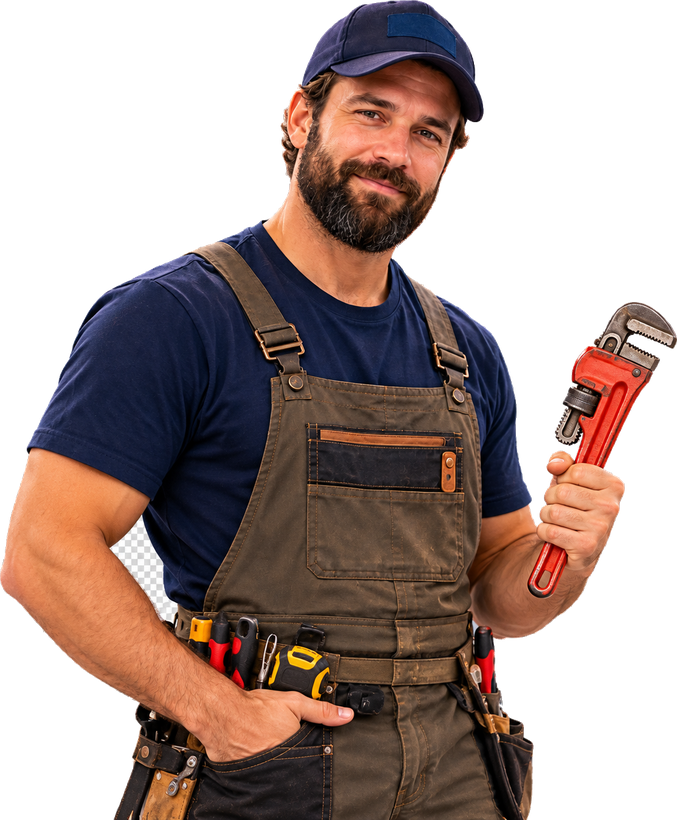
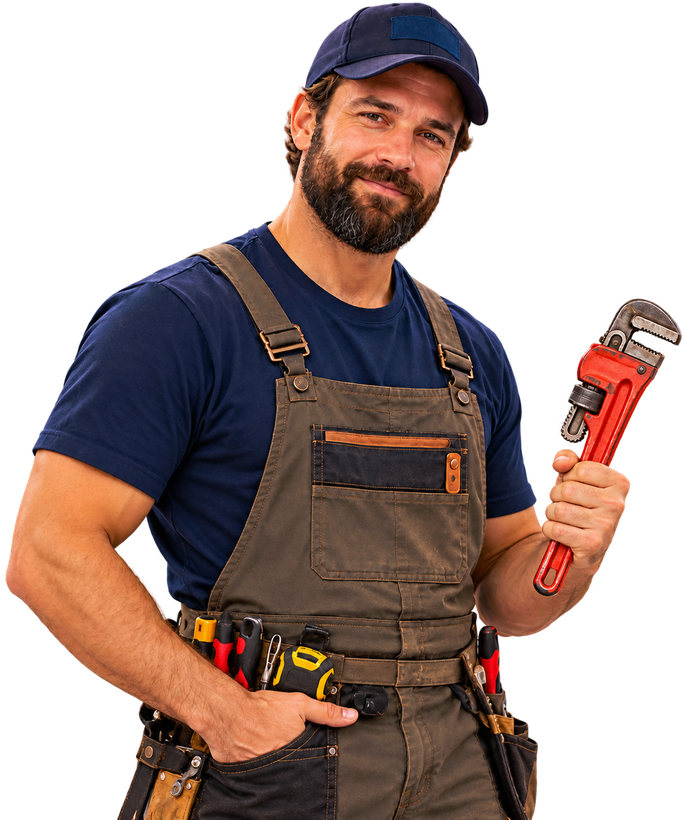
Replace plumber cutout

diff --git a/clinics-dental/index.html b/clinics-dental/index.html
@@ -1743,7 +1743,7 @@ var CAL = "https://calendly.com/hello-voicecaptures";
 // and the switcher keeps it in step afterwards so any tab can be shared.
 // Bump when an image is replaced under the same filename, or returning
 // visitors keep the cached copy.
-var ASSET_V = "5";
+var ASSET_V = "6";
 
 var SLUGS = {
   personal: "personal",

diff --git a/home-services/index.html b/home-services/index.html
@@ -1743,7 +1743,7 @@ var CAL = "https://calendly.com/hello-voicecaptures";
 // and the switcher keeps it in step afterwards so any tab can be shared.
 // Bump when an image is replaced under the same filename, or returning
 // visitors keep the cached copy.
-var ASSET_V = "5";
+var ASSET_V = "6";
 
 var SLUGS = {
   personal: "personal",

diff --git a/index.html b/index.html
@@ -1743,7 +1743,7 @@ var CAL = "https://calendly.com/hello-voicecaptures";
 // and the switcher keeps it in step afterwards so any tab can be shared.
 // Bump when an image is replaced under the same filename, or returning
 // visitors keep the cached copy.
-var ASSET_V = "5";
+var ASSET_V = "6";
 
 var SLUGS = {
   personal: "personal",

diff --git a/other-businesses/index.html b/other-businesses/index.html
@@ -1743,7 +1743,7 @@ var CAL = "https://calendly.com/hello-voicecaptures";
 // and the switcher keeps it in step afterwards so any tab can be shared.
 // Bump when an image is replaced under the same filename, or returning
 // visitors keep the cached copy.
-var ASSET_V = "5";
+var ASSET_V = "6";
 
 var SLUGS = {
   personal: "personal",

diff --git a/personal/index.html b/personal/index.html
@@ -1743,7 +1743,7 @@ var CAL = "https://calendly.com/hello-voicecaptures";
 // and the switcher keeps it in step afterwards so any tab can be shared.
 // Bump when an image is replaced under the same filename, or returning
 // visitors keep the cached copy.
-var ASSET_V = "5";
+var ASSET_V = "6";
 
 var SLUGS = {
   personal: "personal",

diff --git a/restaurants-cafes/index.html b/restaurants-cafes/index.html
@@ -1743,7 +1743,7 @@ var CAL = "https://calendly.com/hello-voicecaptures";
 // and the switcher keeps it in step afterwards so any tab can be shared.
 // Bump when an image is replaced under the same filename, or returning
 // visitors keep the cached copy.
-var ASSET_V = "5";
+var ASSET_V = "6";
 
 var SLUGS = {
   personal: "personal",
